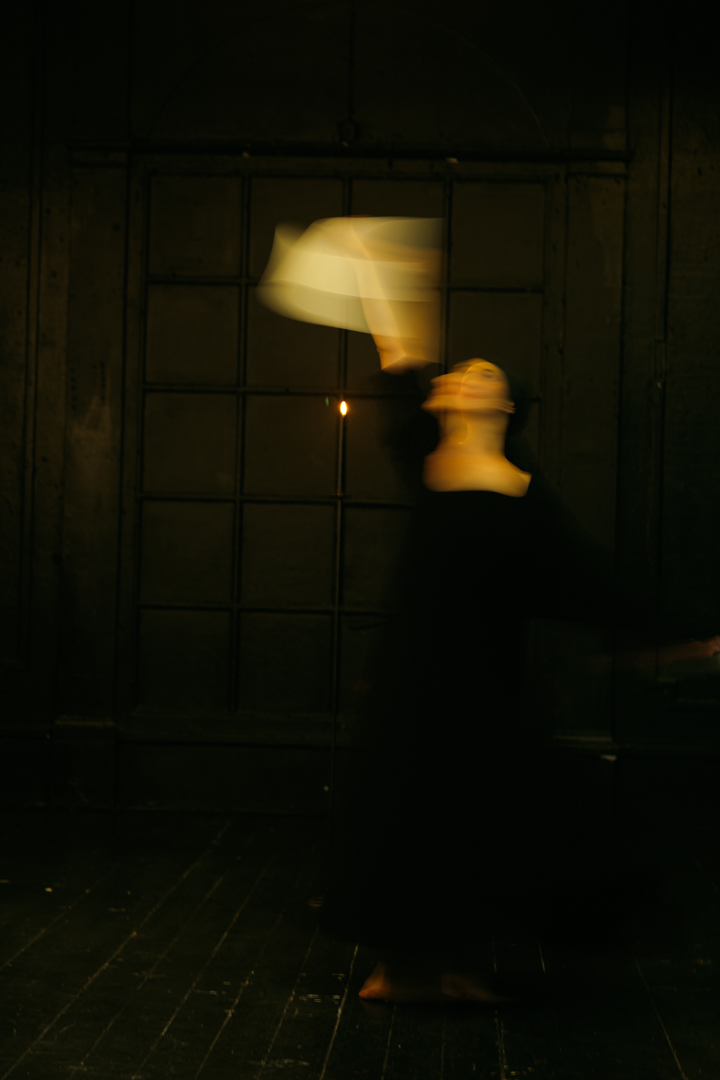
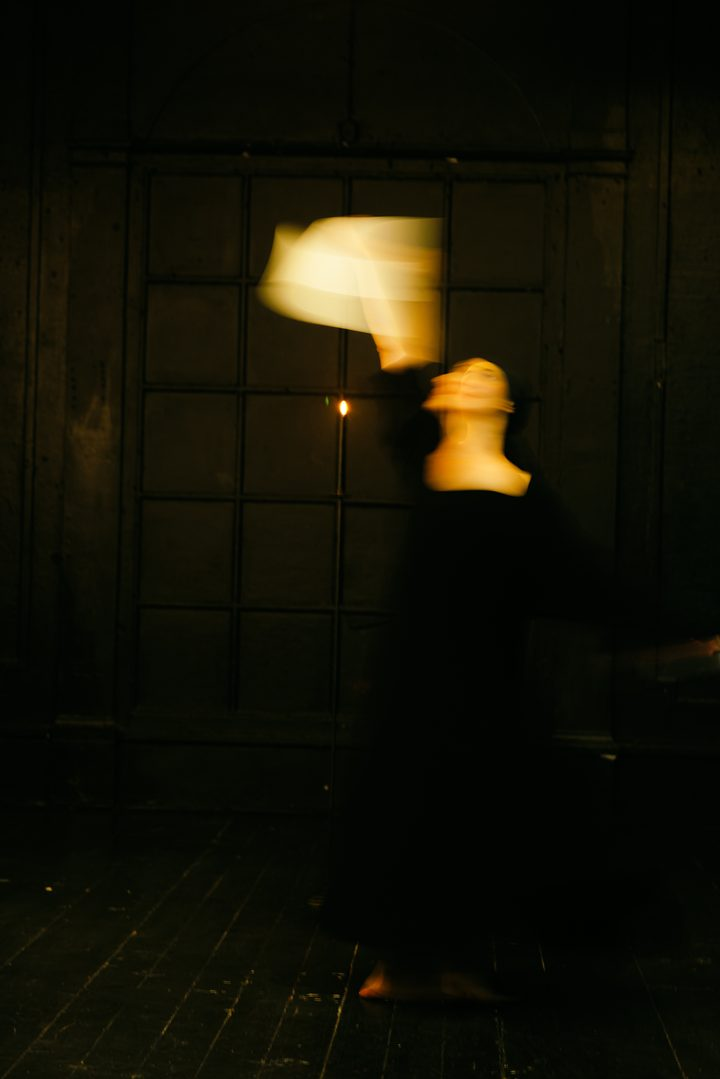
One row set smaller, and the photographs at the resolution they deserve
THE ROSTER. Sizing every row so SIMON SÖDERSTRAND NYSTRÖM — EVENT
PRODUCTION fit on one line took the list to 10.93px at 1440 and 8.96
at 320, which stops being a list of names and starts being fine print.
So the coefficients go back to what they were (4.34 / 4.10 / 4.38) and
that one row carries --scale:.79 instead. The ratio is the same in all
three layouts — 22.82/28.28 wide, 24.14/29.97 stacked, 22.59/28.01
sideways — because the extra length is one name and what differs
between layouts is what surrounds it. Every other row is back to
13.48px at 1440, 12.80 at 390, 11.28 at 320. Every credit still sits
on one line: credits.js passes at all 21 sizes.

THE PHOTOGRAPHS. Three widths each in two formats, from the 2732x4096
masters. Checked first that the masters are the same crops — the poem
is positioned against the shirt at .829 of the figure's width, and a
different crop would have moved it. Correlation .994 to .996, and the
shirt edge differs by 0.8%, inside the 3px the original measurement
already carried.

The files that had been shipping were badly over-encoded: hero.jpg was
297 KB for 720px where 1440px of the same photograph is 120 KB as
jpeg and 55 KB as WebP. Re-encoding the 720s from the masters took
them from 629 KB together to 135. What a device now fetches:

  phone dpr3     629 KB -> 117 KB     at four times the resolution
  phone dpr2     629 KB ->  60 KB
  laptop dpr1    629 KB ->  58 KB
  laptop dpr2    629 KB -> 152 KB
  desktop dpr1   629 KB -> 101 KB
[…]

Changed region(s): [[0.3667, 0.1835, 0.7333, 0.4588], [0.4583, 0.367, 0.4889, 0.3976]]

diff --git a/index.html b/index.html
@@ -400,6 +400,13 @@ html.js .panel{flex:0 0 100%;height:100%;min-height:0}
 
 .says{position:relative;z-index:2;min-width:0}
 
+/* display:contents so the <picture> does not become the flex item the
+   <img> was — every rule that positions a figure targets the img, and
+   the letterboxing depends on it being the thing the flex container
+   sizes. Without this the pictures stop being letterboxed and start
+   being stretched. */
+picture{display:contents}
+
 /* A WASH, AND EDGES THAT STOP RATHER THAN END. Both figures on this
    page stand at their own proportions with the page's black either
    side of them, which left a one-pixel step from 0 to 18 where the
@@ -681,10 +688,17 @@ html.js .panel{flex:0 0 100%;height:100%;min-height:0}
      1920.
 
      Where her shirt falls is worked out. The figure is height-limited
-     until the screen goes square (720x1080 at 2:3, so .6664 of the
-     panel height), width-limited after that at its 42%, and capped at
-     its own 719px — three terms in the min(), because it never
-     enlarges. It is flush right and MIRRORED, so the nearest part of
+     until the screen goes square (2:3, so .6664 of the panel height),
+     width-limited after that at its 42%, and capped at the widest
+     source there is — three terms in the min(), because it never
+     enlarges past the file.
+
+     That third term was 719px while 719px was what the file measured,
+     and higher-resolution photographs quietly broke it: above 1920 the
+     figure grew to 960 while the formula still said 719, and the poem
+     was centred against a shirt that was no longer there. It is 1440
+     now, the widest in the srcset. test/tools/figure.js compares the
+     two at five widths. It is flush right and MIRRORED, so the nearest part of
      her shirt on screen is the furthest in the file: .829 of the
      width, found by scanning for bright neutral pixels, the cotton
      rather than the warm streaks over it.
@@ -698,7 +712,7 @@ html.js .panel{flex:0 0 100%;height:100%;min-height:0}
      poem sat 119px right of centre on exactly the widest screens.
      This is the one place a section's words leave the shared left
      line; see README.md for why here and not elsewhere. */
-  --figure:min(66.64svh,42vw,719px);
+  --figure:min(66.64svh,42vw,1440px);
   --shirt:calc(100vw - var(--figure) * .829);
   padding-left:max(var(--gutter),
                    calc(var(--shirt) / 2 - 7.16 * var(--hand-size)));
@@ -852,20 +866,27 @@ html.js .panel{flex:0 0 100%;height:100%;min-height:0}
      the column is what is left over after a photograph sized by the
      screen's HEIGHT, so at 1440x900 it is 311px and at 1920x1080 it is
      478px, and no function of the width alone knows that. */
-  /* 3.52 / 2.92 / 3.55, one per layout, and .10em of tracking rather
+  /* 4.34 / 4.10 / 4.38, one per layout, and .10em of tracking rather
      than .14em. The coefficient is 100 divided by the ems the longest credit
      sets in, so tightening the tracking is what buys the size:
-     The longest credit is SIMON SÖDERSTRAND NYSTRÖM — EVENT
-     PRODUCTION, and it is 24% longer than the one before it: 28.28em
-     on a wide screen where KRISTOFFER BENCKERT sets in 22.82. Every
-     other row pays for it, because the size is what makes the longest
-     one fit — 11.0px at 1440x900 against the 13.48 the list held
-     before that name arrived.
+     ONE ROW IS SET SMALLER THAN THE REST, and it is the only way the
+     other thirteen keep their size. SIMON SÖDERSTRAND NYSTRÖM — EVENT
+     PRODUCTION sets in 28.28em on a wide screen where KRISTOFFER
+     BENCKERT, the longest before it, sets in 22.82. Sizing every row
+     so that one fits took the list from 13.48px to 10.93 at 1440x900,
+     and to 8.96 at 320 — which is small enough to stop being a list
+     of names and start being fine print.
 
-     IT IS PER LAYOUT because the ems are — 28.28em on a wide screen,
-     29.97em stacked, 28.01em sideways — so one number for all three has
-     to serve the widest and leaves the others short.
-     test/tools/coeff.js measures each.
+     So the coefficients are the ones the list had before that name
+     arrived, and .long carries a --scale instead. 22.82/28.28 = .807
+     on a wide screen, 24.14/29.97 = .806 stacked, 22.59/28.01 = .807
+     sideways — the same number three times, because the extra length
+     is one name and the layouts differ in what surrounds it, not in
+     the name. .79 leaves a little under the tightest of them.
+
+     The scale multiplies the clamp rather than replacing it, so there
+     is still one place the size is decided and the exception is
+     visibly an exception. test/tools/coeff.js measures the ems.
 
      A container query resolves against the CONTENT box, which is what
      wrapped the first attempt at 320px: the column measures 320 with
@@ -879,7 +900,8 @@ html.js .panel{flex:0 0 100%;height:100%;min-height:0}
      file letterboxed to the panel height, so they are the same width as
      each other at every desktop size (test/tools/samewidth.js), and
      narrowing one would break that. */
-  font-size:clamp(.6rem,3.52cqw,.98rem);
+  --scale:1;
+  font-size:calc(clamp(.6rem,4.34cqw,.98rem) * var(--scale));
   letter-spacing:.10em;text-indent:.10em;text-transform:uppercase;
   text-wrap:balance;
   color:var(--cream);
@@ -894,6 +916,9 @@ html.js .panel{flex:0 0 100%;height:100%;min-height:0}
    width the role costs — a credit is a name AND a role now, and the
    pair has to sit on one line in a column beside a photograph. */
 .roster .r{color:var(--mist);font-size:.84em;letter-spacing:.08em}
+/* the one row too long to sit on a line at the size the rest are set
+   at — see the note above the clamp */
+.roster li.long{--scale:.79}
 /* MOST OF THESE NAMES HAVE A PAGE OF THEIR OWN, AND THREE DO NOT, and
    the mark is a tick in the margin — the fifth thing tried. Three of
    the four before it were underlines, and two of those rendered on
@@ -1474,7 +1499,7 @@ html.js .panel{flex:0 0 100%;height:100%;min-height:0}
      size — 12.8px on a 768px screen was the whole list whispering. The
      row's air comes from svh and was capped at .46rem, which a tall
      screen hit immediately; the cap is raised to let it breathe. */
-  .roster li{font-size:clamp(.56rem,2.92cqw,clamp(.8rem,1.4vw + .35rem,1.15rem));
+  .roster li{font-size:calc(clamp(.56rem,4.10cqw,clamp(.8rem,1.4vw + .35rem,1.15rem)) * var(--scale));
              letter-spacing:.16em;text-indent:.16em;
              padding:var(--row-pad) 0}
 
@@ -1790,7 +1815,7 @@ html.js .panel{flex:0 0 100%;height:100%;min-height:0}
      is fourteen rows now, so the row padding is what pays for the
      fourteenth. At .1rem the column overran its box by 6px at 844x390
      and had nothing left at 667x375. */
-  .roster li{font-size:clamp(.5rem,3.55cqw,.72rem);padding:.04rem 0;
+  .roster li{font-size:calc(clamp(.5rem,4.38cqw,.72rem) * var(--scale));padding:.04rem 0;
              letter-spacing:.09em;text-indent:.09em}
 }
 
@@ -1865,7 +1890,30 @@ html.js .panel{flex:0 0 100%;height:100%;min-height:0}
   </a>
 </nav>
 
-<!-- LAZY HERE BUYS LESS THAN IT LOOKS LIKE IT SHOULD, and the
+<!-- THREE WIDTHS EACH IN TWO FORMATS, and the browser picks.
+     WebP first, JPEG behind it — 57% smaller across the nine files,
+     which is what dark photographs do under it. The <img> keeps its
+     own jpeg srcset, so anything that cannot read the <source> gets a
+     correctly-sized jpeg rather than nothing.
+
+     THREE WIDTHS EACH, and the browser picks. The masters are
+     2732x4096 and live in _reference/masters/, which Jekyll does not
+     publish — what is served is 720, 1080 and 1440 derived from them.
+     1440 is the widest any screen this page meets actually asks for:
+     a 430px phone at three times density wants 1290.
+
+     Re-encoding them from the masters was worth more than the extra
+     widths were. The files that had been shipping were badly over-
+     encoded — hero.jpg was 297 KB for 720px, where 1440px of the same
+     photograph is 120 KB. The three 720s went from 629 KB together to
+     135, at the same resolution.
+
+     `sizes` says 42vw past the stacking breakpoint and 100vw below it:
+     the figure is height-limited on a wide screen, so it comes out
+     around 42% of the viewport there, and runs the full width once the
+     section stacks.
+
+     LAZY HERE BUYS LESS THAN IT LOOKS LIKE IT SHOULD, and the
      measurement is why the priorities are here as well. Every section
      is in the document at once and moved with a transform, so the
      browser's lazy margin counts the ones a swipe away as near enough
@@ -1886,8 +1934,20 @@ html.js .panel{flex:0 0 100%;height:100%;min-height:0}
   <!-- ══════════════════  I. amor  ══════════════════ -->
   <section class="panel" id="amor">
     <div class="shot">
-      <img src="images/hero.jpg" width="720" height="1080" decoding="async" fetchpriority="high"
-           alt="A dancer arched backwards, arms reaching upward, lit warm against a black room.">
+      <picture>
+        <source type="image/webp"
+                srcset="images/hero.webp 720w,
+                        images/hero-1080.webp 1080w,
+                        images/hero-1440.webp 1440w"
+                sizes="(min-width:1240px) 42vw, 100vw">
+        <img
+             srcset="images/hero.jpg 720w,
+                     images/hero-1080.jpg 1080w,
+                     images/hero-1440.jpg 1440w"
+             sizes="(min-width:1240px) 42vw, 100vw"
+             src="images/hero.jpg" width="720" height="1079" decoding="async" fetchpriority="high"
+             alt="A dancer arched backwards, arms reaching upward, lit warm against a black room.">
+      </picture>
     </div>
     <div class="veil veil-foot"></div>
 
@@ -1938,7 +1998,19 @@ html.js .panel{flex:0 0 100%;height:100%;min-height:0}
       </blockquote>
     </div>
     <div class="beside" data-reveal style="--d:.2s">
-      <img src="images/dancer.jpg" width="719" height="1079" alt="" loading="lazy" decoding="async" fetchpriority="low">
+      <picture>
+        <source type="image/webp"
+                srcset="images/dancer.webp 720w,
+                        images/dancer-1080.webp 1080w,
+                        images/dancer-1440.webp 1440w"
+                sizes="(min-width:1240px) 42vw, 100vw">
+        <img
+             srcset="images/dancer.jpg 720w,
+                     images/dancer-1080.jpg 1080w,
+                     images/dancer-1440.jpg 1440w"
+             sizes="(min-width:1240px) 42vw, 100vw"
+             src="images/dancer.jpg" width="720" height="1079" alt="" loading="lazy" decoding="async" fetchpriority="low">
+      </picture>
     </div>
   </section>
 
@@ -1994,13 +2066,25 @@ html.js .panel{flex:0 0 100%;height:100%;min-height:0}
         <li data-reveal style="--d:0.62s"><a class="n" href="https://www.eliasljungberg.com/" target="_blank" rel="noopener noreferrer">Elias Ljungberg</a><span class="d">&#8211;</span> <span class="r">Photography</span></li>
         <li data-reveal style="--d:0.66s"><a class="n" href="https://antarchitecturemusic.com/" target="_blank" rel="noopener noreferrer">Andreas Frantz</a><span class="d">&#8211;</span> <span class="r">Sound Design</span></li>
         <li class="nolink" data-reveal style="--d:0.70s"><span class="n">Kristoffer Benckert</span><span class="d">&#8211;</span> <span class="r">Music, Web Design</span></li>
-        <li class="nolink" data-reveal style="--d:0.74s"><span class="n">Simon S&#246;derstrand Nystr&#246;m</span><span class="d">&#8211;</span> <span class="r">Event Production</span></li>
+        <li class="nolink long" data-reveal style="--d:0.74s"><span class="n">Simon S&#246;derstrand Nystr&#246;m</span><span class="d">&#8211;</span> <span class="r">Event Production</span></li>
       </ul>
     </div>
 
     <div class="beside">
-      <img src="images/artists.jpeg" width="720" height="1080" loading="lazy" decoding="async" fetchpriority="low"
-           alt="A dancer turning by candlelight, a pale cloth trailing through the air.">
+      <picture>
+        <source type="image/webp"
+                srcset="images/artists.webp 720w,
+                        images/artists-1080.webp 1080w,
+                        images/artists-1440.webp 1440w"
+                sizes="(min-width:1240px) 42vw, 100vw">
+        <img
+             srcset="images/artists.jpeg 720w,
+                     images/artists-1080.jpg 1080w,
+                     images/artists-1440.jpg 1440w"
+             sizes="(min-width:1240px) 42vw, 100vw"
+             src="images/artists.jpeg" width="720" height="1079" loading="lazy" decoding="async" fetchpriority="low"
+             alt="A dancer turning by candlelight, a pale cloth trailing through the air.">
+      </picture>
     </div>
   </section>
 

diff --git a/test/tools/picked.js b/test/tools/picked.js
@@ -1,0 +1,32 @@
+const { launch, SITE } = require("../browser");
+/* Which width each screen actually asks for, and what the page costs
+   because of it. srcset is only worth having if the choices are right. */
+(async () => {
+  const b = await launch();
+  const cases = [["phone dpr3", 390, 844, 3], ["phone dpr2", 390, 844, 2],
+                 ["big phone dpr3", 430, 932, 3], ["tablet dpr2", 768, 1024, 2],
+                 ["laptop dpr1", 1440, 900, 1], ["laptop dpr2", 1440, 900, 2],
+                 ["desktop dpr1", 1920, 1080, 1]];
+  for (const [tag, w, h, dpr] of cases) {
+    const ctx = await b.newContext({ viewport:{width:w,height:h}, hasTouch:w<1100,
+                                     isMobile:w<1100, deviceScaleFactor:dpr });
+    const pg = await ctx.newPage();
+    let bytes = 0; const got = [];
+    pg.on("response", async r => {
+      if (r.request().resourceType() !== "image") return;
+      got.push(r.url().split("/").pop());
+      try { bytes += (await r.body()).length; } catch (e) {}
+    });
+    await pg.goto(SITE + "/index.html", { waitUntil: "load" });
+    await pg.waitForTimeout(2200);
+    for (const i of [1, 2]) {
+      await pg.evaluate(i => { const d = document.querySelectorAll(".dots button");
+        if (d.length && getComputedStyle(d[0].parentElement).display !== "none") d[i].click();
+        else document.querySelectorAll(".jump a.to")[i].click(); }, i);
+      await pg.waitForTimeout(1400);
+    }
+    console.log(`${tag.padEnd(15)} ${String(w).padStart(4)}x${h} @${dpr}  ${(bytes/1024).toFixed(0).padStart(4)} KB  ${got.join(", ")}`);
+    await ctx.close();
+  }
+  await b.close();
+})();

diff --git a/test/tools/figure.js b/test/tools/figure.js
@@ -1,0 +1,28 @@
+const { launch, SITE } = require("../browser");
+/* What --figure claims the about figure is, against what it measures.
+   The two agreed while the photographs' own 720px was the binding cap;
+   higher-resolution sources removed that cap. */
+(async () => {
+  const b = await launch();
+  for (const [w,h] of [[1280,800],[1440,900],[1920,1080],[2560,1440],[3440,1440]]) {
+    const ctx = await b.newContext({viewport:{width:w,height:h}});
+    const pg = await ctx.newPage();
+    await pg.goto(SITE + "/index.html", {waitUntil:"load"});
+    await pg.waitForTimeout(1200);
+    await pg.evaluate(()=>document.querySelectorAll('.jump a.to')[1].click());
+    await pg.waitForTimeout(1400);
+    const r = await pg.evaluate(()=>{
+      const img=document.querySelector('#about .beside img');
+      const cs=getComputedStyle(document.querySelector('#about'));
+      const px=v=>{const d=document.createElement('div');d.style.cssText='position:absolute;width:'+v;
+        document.body.appendChild(d);const x=d.getBoundingClientRect().width;d.remove();return x;};
+      return {real:+img.getBoundingClientRect().width.toFixed(1),
+              claimed:+px(cs.getPropertyValue('--figure').trim()).toFixed(1),
+              verseLeft:+document.querySelector('#about .hand').getBoundingClientRect().left.toFixed(0)};
+    });
+    const bad = Math.abs(r.real-r.claimed) > 2;
+    console.log(`${(w+'x'+h).padEnd(10)} figure measures ${String(r.real).padStart(6)}  --figure says ${String(r.claimed).padStart(6)}  ${bad?'MISMATCH':'agree'}   verse left ${r.verseLeft}`);
+    await ctx.close();
+  }
+  await b.close();
+})();
